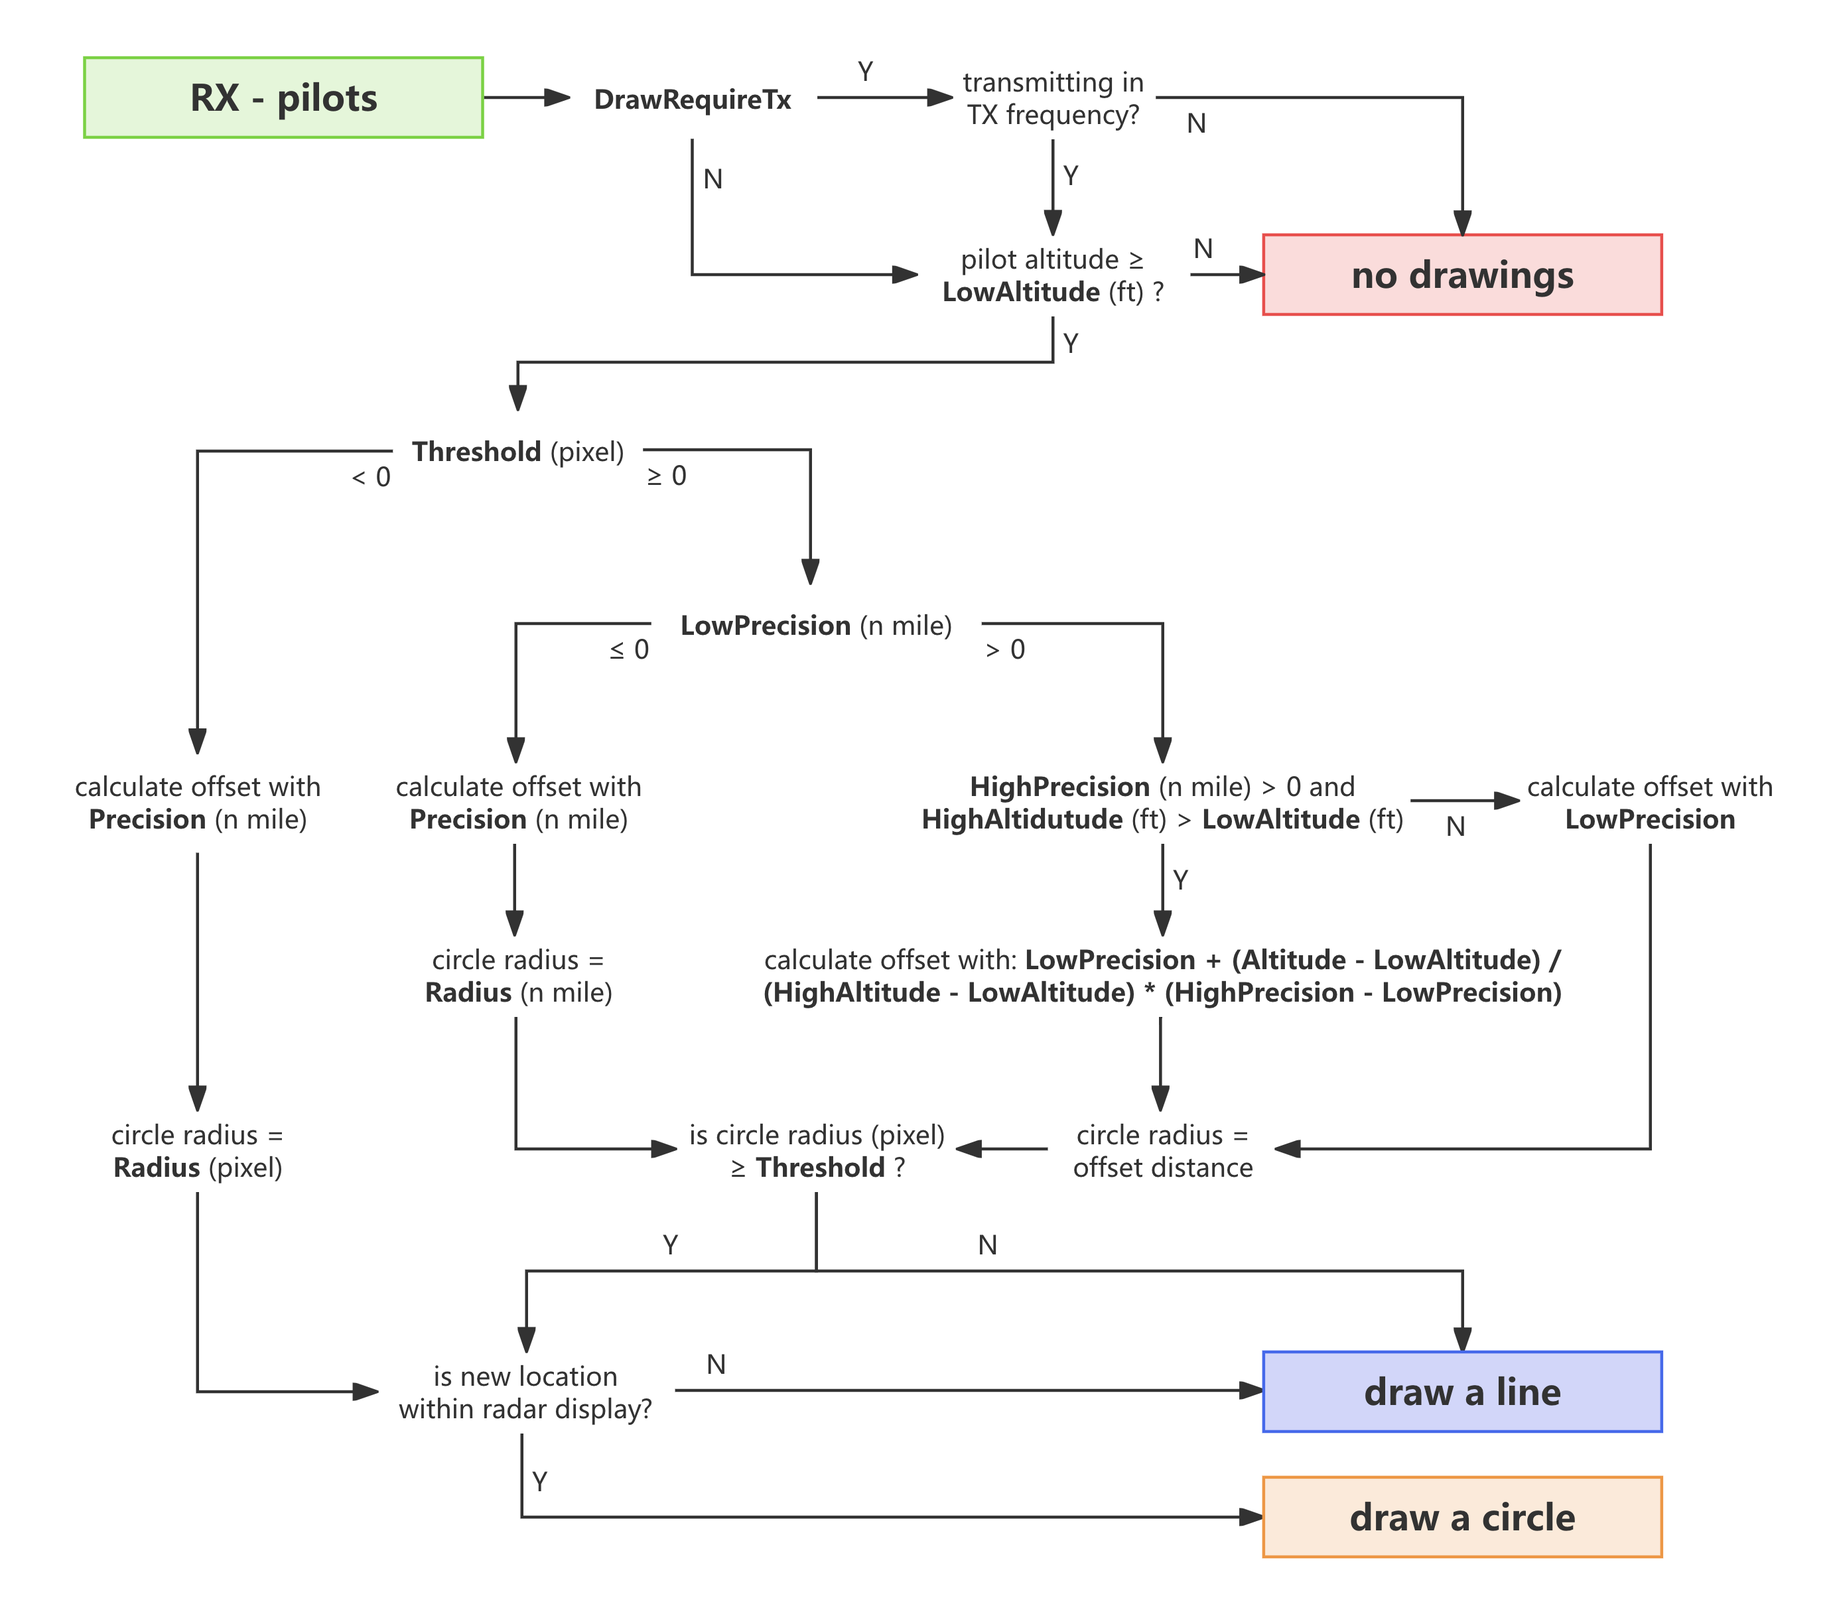
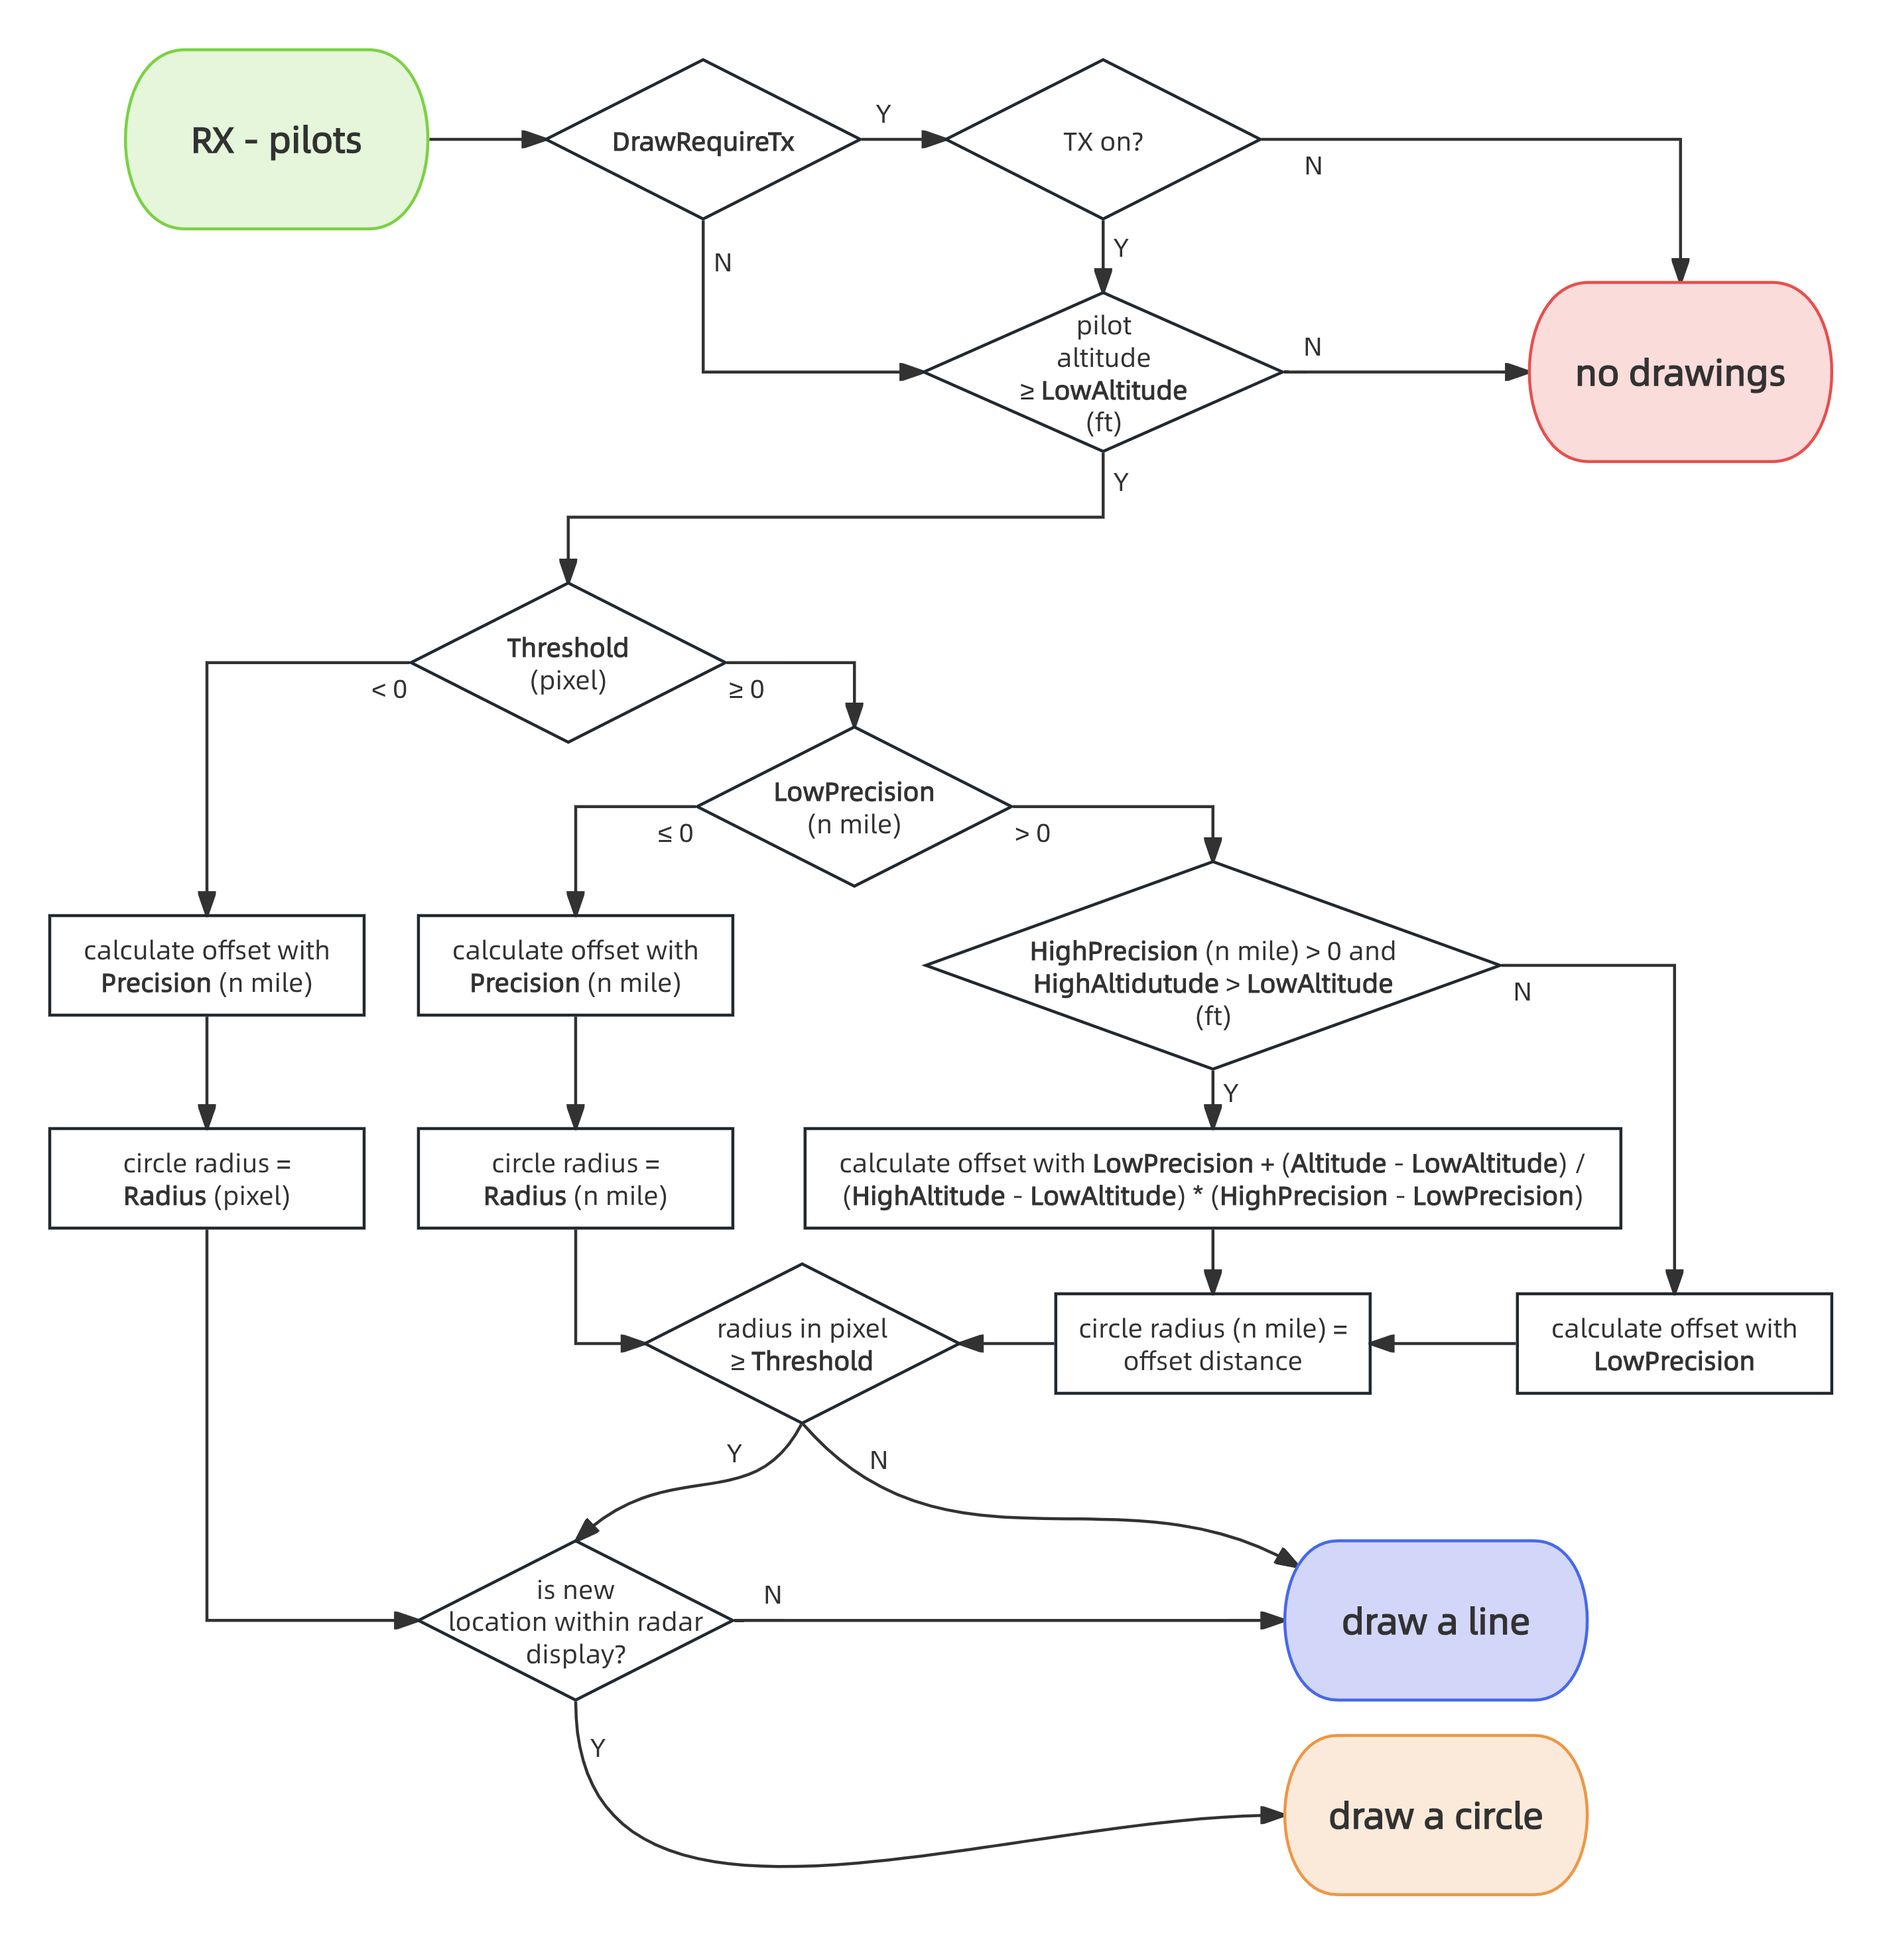
update README for style

diff --git a/README.md b/README.md
@@ -31,9 +31,9 @@ Do the same work as [*afv-euroscope-bridge*](https://github.com/AndyTWF/afv-euro
 ## Configurations
 
 > [!NOTE]
-> All command line functions are case-insensitive.
+> All command line functions are case-insensitive, except `[Style Name]` in `.RDF STYLE [Style Name]`.
 
-### General
+### General Plugin Settings
 
 This table shows general configurable items that would affect the plugin globally.
 
@@ -65,7 +65,7 @@ This table shows general configurable items that would affect the plugin globall
 >
 > To change log level, the only way is to unload & reload RDFPlugin.dll inside EuroScope plugin setup dialog.
 
-### Drawing Parameters
+## Drawing Parameters
 
 This table shows all RDF drawing parameters. All entries allow per-ASR configuration.
 
@@ -90,8 +90,12 @@ This table shows all RDF drawing parameters. All entries allow per-ASR configura
 + **RGB, ConcurrentTransmissionRGB** define drawing colors when single or multiple stations are transmitting at the same time.
 + **Radius, Threshold, Precision, LowAltitude, HighAltitude, LowPrecision, HighPrecision** see [Random Offset Schematic](#random-offset-schematic) below.
 
-> [!NOTE]
-> When an ASR is opened, the plugin will use the configurations in the sequence of **ASR > plugin settings file > default value**.
+> [!TIP]
+> For all boolean parameters or settings, both 0/1 and off/on are accepted in command line functions.
+
+### Drawing Parameters Schematic
+
+<img src="docs/drawing-parameters-schematic.png" style="width: 50%;">
 
 ### Drawing Parameters Command Line Functions
 
@@ -107,15 +111,26 @@ This table shows all RDF drawing parameters. All entries allow per-ASR configura
 + Settings will be saved to ASR file.
 + E.g. `.RDF ASR DRAW 0` will disable RDF in current ASR.
 
+`.RDF STYLE [Style Name]`
+
++ Designed for pre-defined scenarios and real-time switching.
++ Requires an **RDFStyle.json** file next to DLL file. [JSON format](#example---style)
++ `[Style Name]` is the name of the style. Must be exact match (case-sensitive).
++ STYLE settings will not be saved. Manual reload is required after restarting EuroScope.
+
 ### Random Offset Schematic
 
-For transmitting pilots:
-![random-offset-schematic-pilots](docs/random-offset-schematic-pilots.png)
+**For transmitting pilots:**
 
-For transmitting controllers:
-![random-offset-schematic-controllers](docs/random-offset-schematic-controllers.png)
+<img src="docs/random-offset-schematic-pilots.png" style="width: 50%;">
 
-### Samples - Plugin Settings File
+**For transmitting controllers:**
+
+<img src="docs/random-offset-schematic-controllers.png" style="width: 35%;">
+
+## Configuration Examples
+
+### Example - Plugin Settings File
 
 ```text
 RDF Plugin for Euroscope:LogLevel:none
@@ -155,7 +170,7 @@ RDF Plugin for Euroscope:HighAltitude:41100
 RDF Plugin for Euroscope:HighPrecision:25
 ```
 
-### Samples - Per-ASR Drawing Parameters
+### Example - Per-ASR Drawing Parameters
 
 ```text
 ; Disables RDF in this ASR
@@ -184,6 +199,45 @@ PLUGIN:RDF Plugin for Euroscope:HighAltitude:0
 PLUGIN:RDF Plugin for Euroscope:LowPrecision:0
 PLUGIN:RDF Plugin for Euroscope:HighPrecision:0
 ```
+
+### Example - STYLE
+
+> [!NOTE]
+> Any items not defined in JSON file will be treated as plugin default.
+
+```json
+{
+  "LANGEN": {
+    "Radius": 20,
+    "Precision": 0,
+    "Threshold": 999999,
+    "LowAltitude": 0,
+    "HighAltitude": 0,
+    "LowPrecision": 10,
+    "HighPrecision": 20,
+    "RGB": "114:150:102",
+    "ConcurrentTransmissionRGB": "114:150:102",
+    "DrawControllers": false,
+    "DrawRequireTx": false
+  },
+  "RING": {
+    "Radius": 20,
+    "Precision": 0,
+    "Threshold": -1,
+    "LowAltitude": 0,
+    "HighAltitude": 0,
+    "LowPrecision": 0,
+    "HighPrecision": 0,
+    "RGB": "114:150:102",
+    "ConcurrentTransmissionRGB": "114:150:102",
+    "DrawControllers": false,
+    "DrawRequireTx": false
+  }
+}
+```
+
+> [!TIP]
+> In the above example, `LANGEN` and `RING` are style names.
 
 ## Known Issues
 
